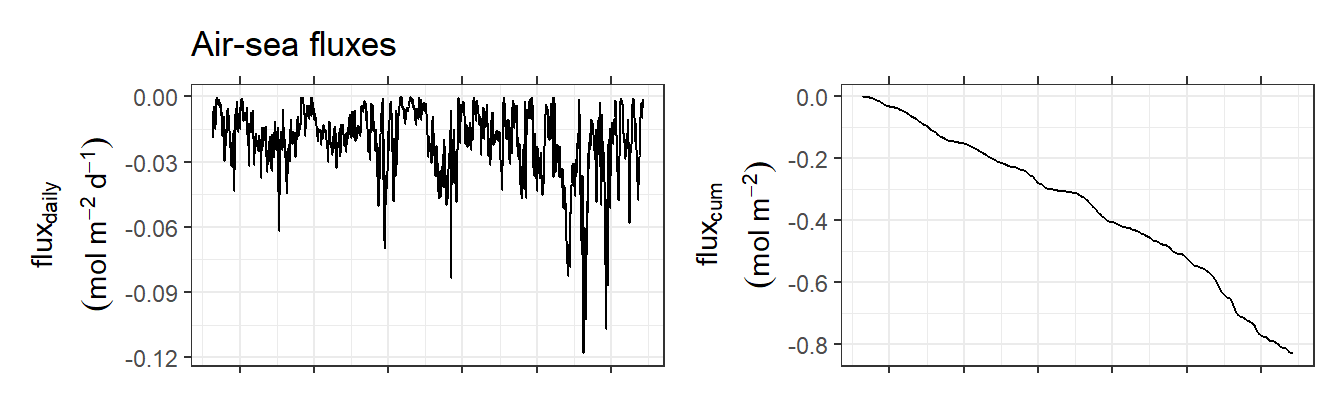
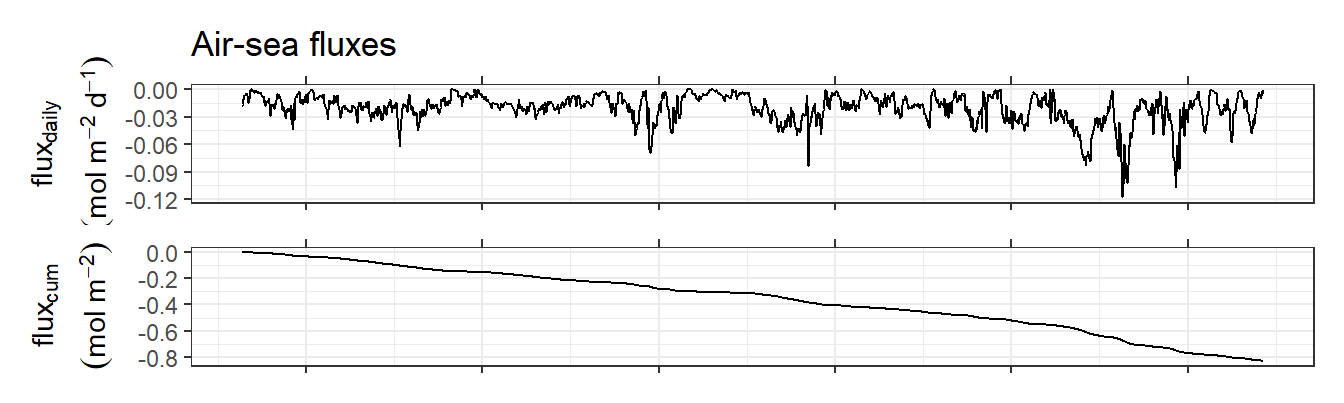
Build site.

diff --git a/docs/CT_dynamics.html b/docs/CT_dynamics.html
@@ -558,16 +558,16 @@ This reproducible <a href="http://rmarkdown.rstudio.com">R Markdown</a> analysis
 <div class="panel panel-default">
 <div class="panel-heading">
 <p class="panel-title">
-<a data-toggle="collapse" data-parent="#workflowr-checks" href="#strongRepositoryversionstrongahrefhttpsgithubcomjensdanielmuellerBloomSailtree23d67e3bd1ee9bbca97fca2fbeabcf4d3fb9d760targetblank23d67e3a"> <span class="glyphicon glyphicon-ok text-success" aria-hidden="true"></span> <strong>Repository version:</strong> <a href="https://github.com/jens-daniel-mueller/BloomSail/tree/23d67e3bd1ee9bbca97fca2fbeabcf4d3fb9d760" target="_blank">23d67e3</a> </a>
+<a data-toggle="collapse" data-parent="#workflowr-checks" href="#strongRepositoryversionstrongahrefhttpsgithubcomjensdanielmuellerBloomSailtree4433c582578fa02f0f3ba2711704a6f4c3eb5f28targetblank4433c58a"> <span class="glyphicon glyphicon-ok text-success" aria-hidden="true"></span> <strong>Repository version:</strong> <a href="https://github.com/jens-daniel-mueller/BloomSail/tree/4433c582578fa02f0f3ba2711704a6f4c3eb5f28" target="_blank">4433c58</a> </a>
 </p>
 </div>
[2 lines of base64/hex data omitted]
 <div class="panel-body">
 <p>
 Great! You are using Git for version control. Tracking code development and connecting the code version to the results is critical for reproducibility.
 </p>
 <p>
-The results in this page were generated with repository version <a href="https://github.com/jens-daniel-mueller/BloomSail/tree/23d67e3bd1ee9bbca97fca2fbeabcf4d3fb9d760" target="_blank">23d67e3</a>. See the <em>Past versions</em> tab to see a history of the changes made to the R Markdown and HTML files.
+The results in this page were generated with repository version <a href="https://github.com/jens-daniel-mueller/BloomSail/tree/4433c582578fa02f0f3ba2711704a6f4c3eb5f28" target="_blank">4433c58</a>. See the <em>Past versions</em> tab to see a history of the changes made to the R Markdown and HTML files.
 </p>
 <p>
 Note that you need to be careful to ensure that all relevant files for the analysis have been committed to Git prior to generating the results (you can use <code>wflow_publish</code> or <code>wflow_git_commit</code>). workflowr only checks the R Markdown file, but you know if there are other scripts or data files that it depends on. Below is the status of the Git repository when the results were generated:
@@ -631,6 +631,40 @@ Message
 </tr>
 </thead>
 <tbody>
+<tr>
+<td>
+Rmd
+</td>
+<td>
+<a href="https://github.com/jens-daniel-mueller/BloomSail/blob/4433c582578fa02f0f3ba2711704a6f4c3eb5f28/analysis/CT_dynamics.Rmd" target="_blank">4433c58</a>
+</td>
+<td>
+jens-daniel-mueller
+</td>
+<td>
+2020-05-11
+</td>
+<td>
+flux plots vertical
+</td>
+</tr>
+<tr>
+<td>
+html
+</td>
+<td>
+<a href="https://rawcdn.githack.com/jens-daniel-mueller/BloomSail/337dad1de5d51e82c9b9cf2f1c81b777979a1b9a/docs/CT_dynamics.html" target="_blank">337dad1</a>
+</td>
+<td>
+jens-daniel-mueller
+</td>
+<td>
+2020-05-11
+</td>
+<td>
+Build site.
+</td>
+</tr>
 <tr>
 <td>
 Rmd
@@ -4175,7 +4209,7 @@ tm_profiles_surface_long_ID %&gt;%
                            (mu*mol~kg^{-1}))))+
   theme(axis.title.x = element_blank(),
         axis.text.x = element_blank(),
-        legend.position = c(0.3,0.8),
+        legend.position = c(0.35,0.75),
         legend.title = element_blank(),
         legend.direction = &quot;horizontal&quot;,
         legend.background = element_rect(fill = &quot;transparent&quot;),
@@ -4324,7 +4358,8 @@ p_flux_cum &lt;- tm_og %&gt;%
   theme(axis.title.x = element_blank(),
         axis.text.x = element_blank())
 
-p_flux_daily + p_flux_cum</code></pre>
+p_flux_daily + p_flux_cum +
+  plot_layout(ncol = 1)</code></pre>
 <p><img src="figure/CT_dynamics.Rmd/flux_air_sea_cumulative_CO2-1.png" width="672" style="display: block; margin: auto;" /></p>
 </div>
 </div>
